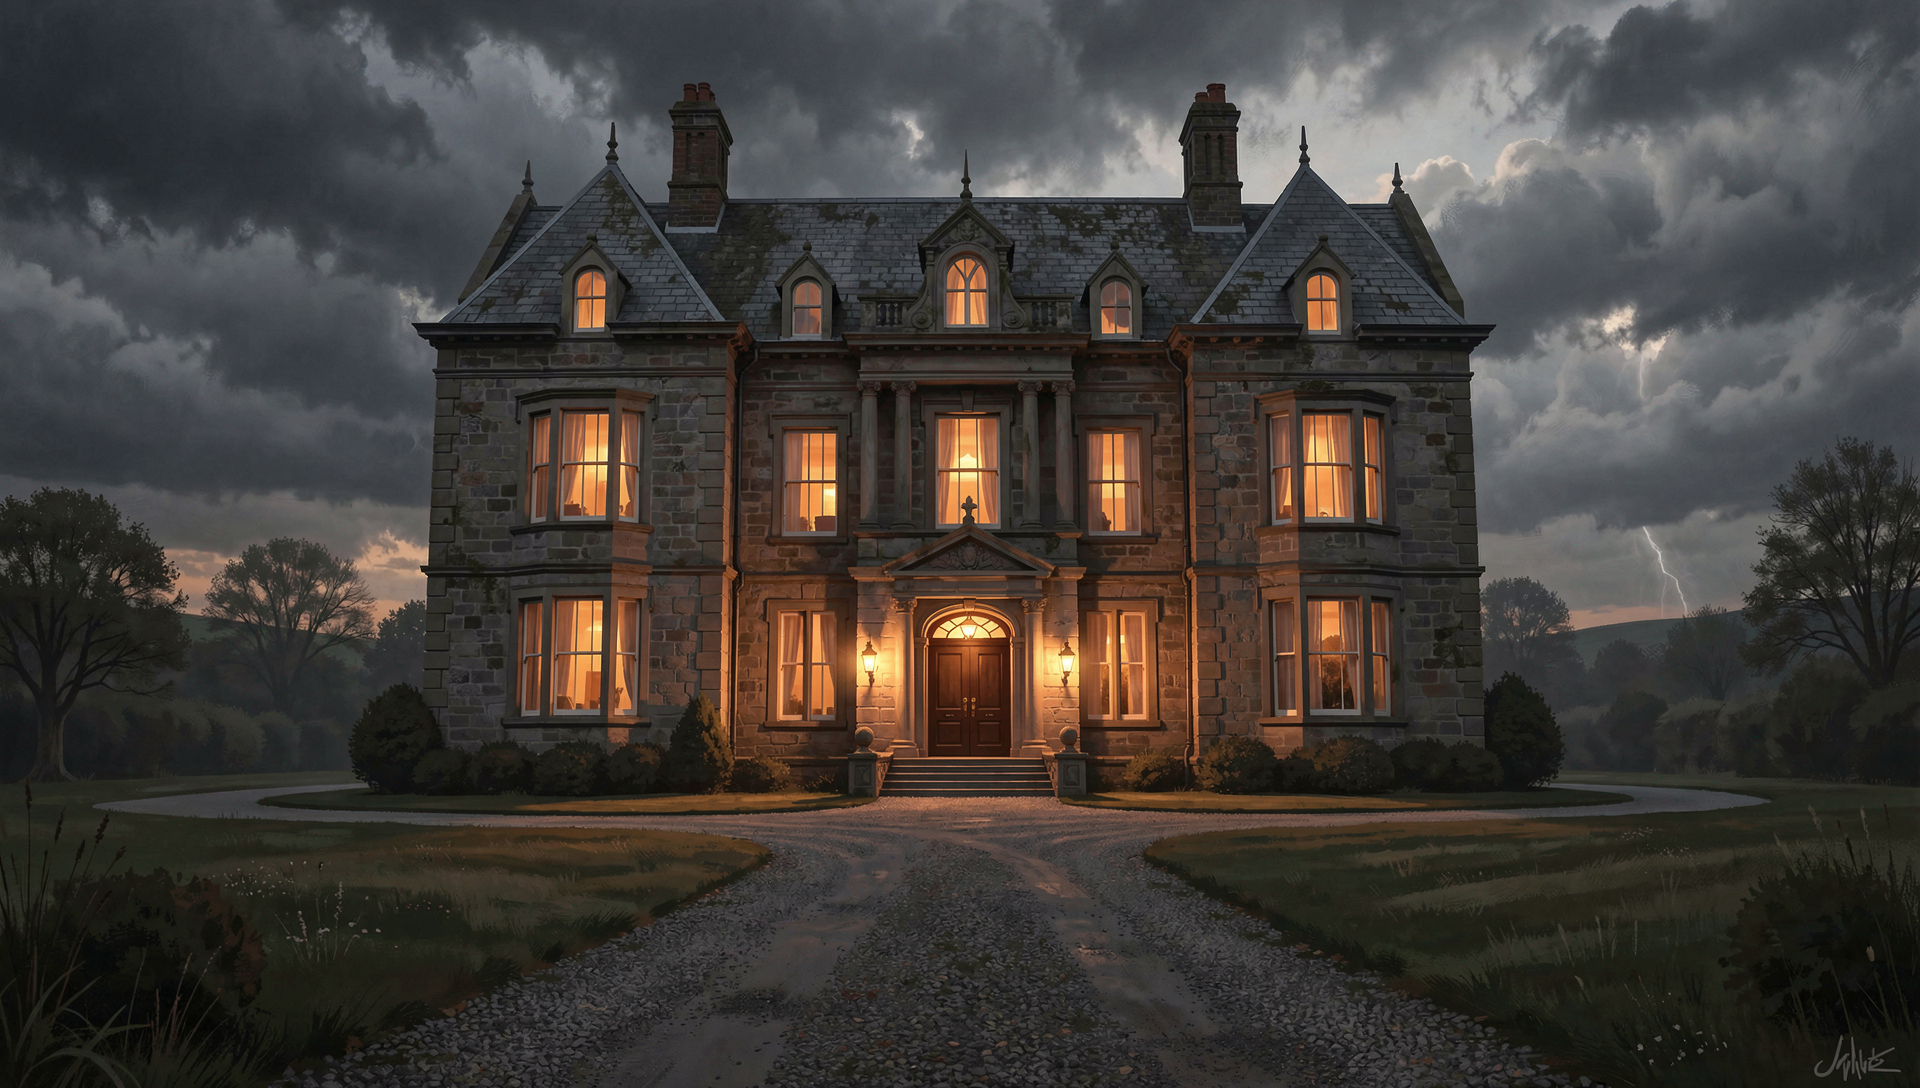
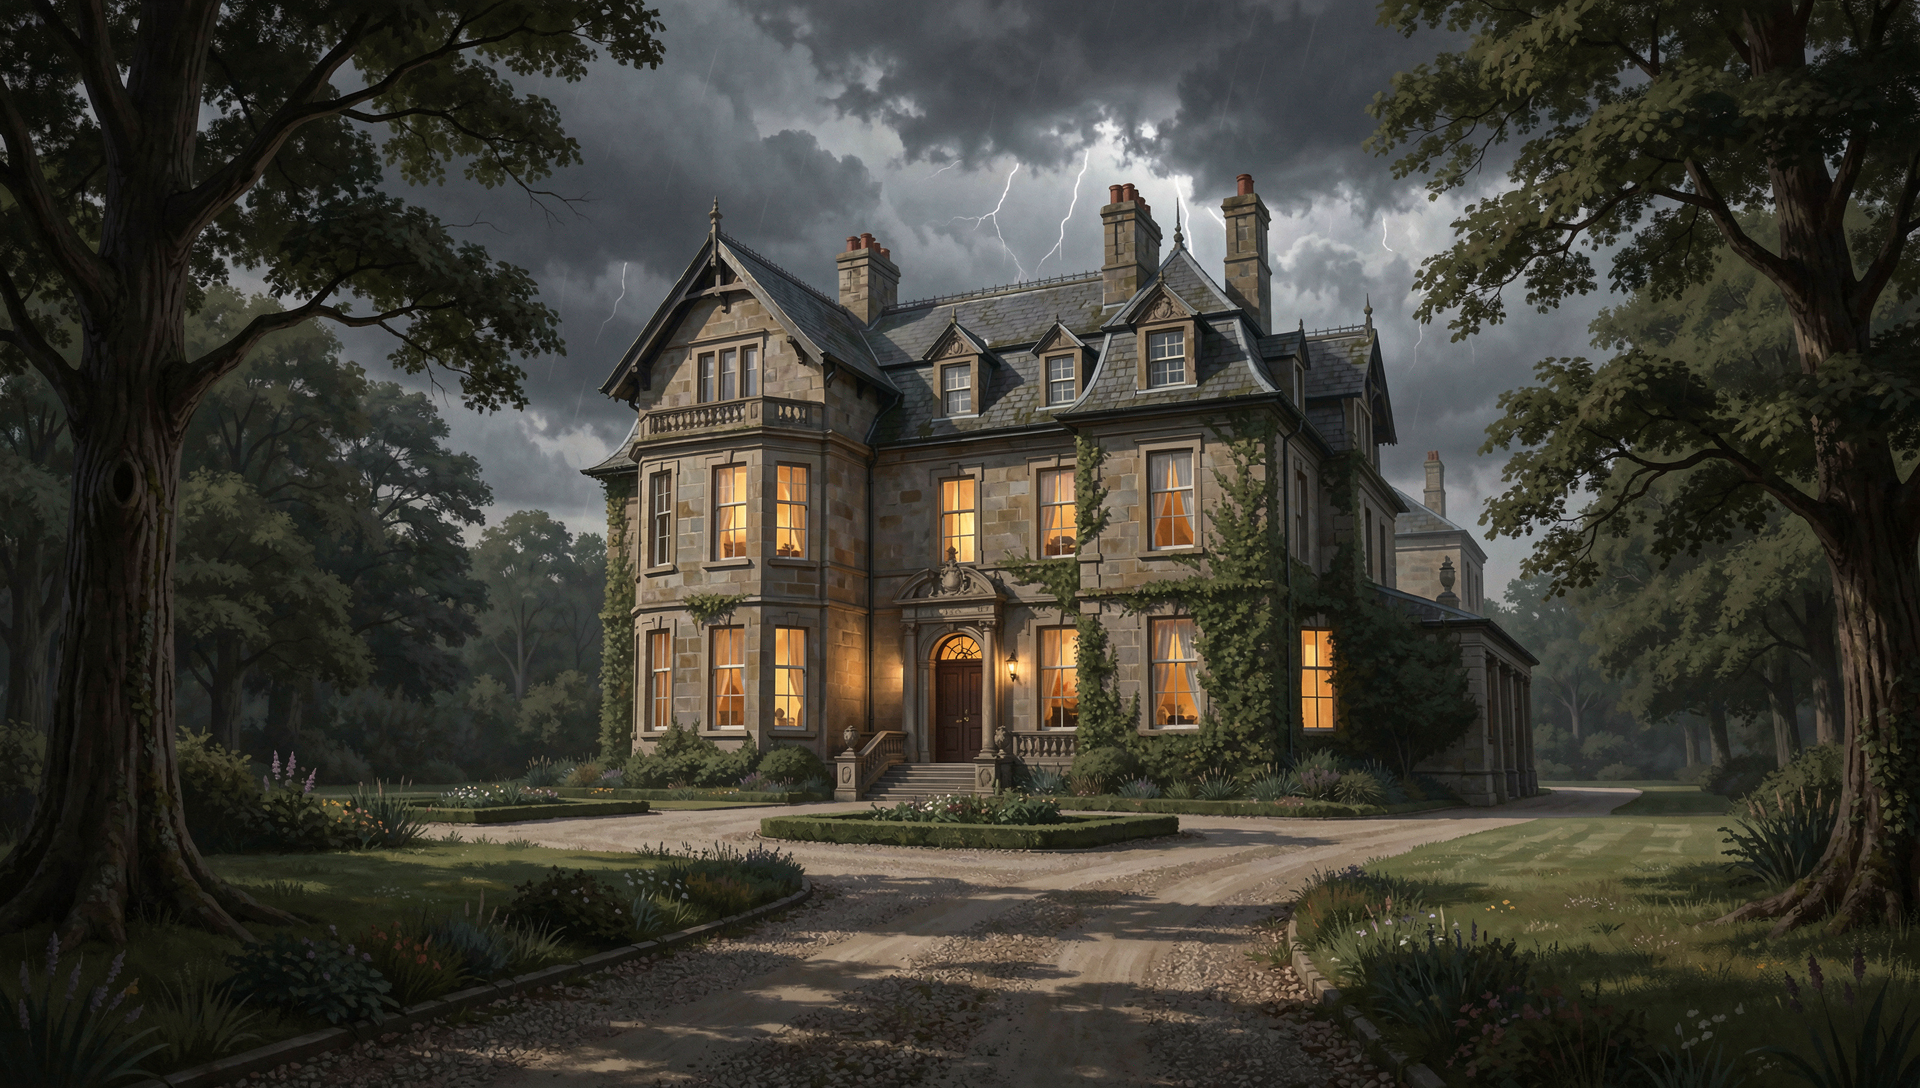
new outdoor locations image

diff --git a/tools/toggle_location_lighting.py b/tools/toggle_location_lighting.py
@@ -25,8 +25,8 @@ PROMPT_TEMPLATES = {
         "Wide shot, empty room, rich textures, detailed."
     ),
     "outdoor_night": (
-        "A high-quality semi-realistic digital painting of a {description} at night. "
-        "Warm amber light. Deep soft shadows, mysterious atmosphere, wide shot, "
+        "A high-quality semi-realistic digital painting of a {description} at night."
+        "Deep soft shadows, mysterious atmosphere, wide shot, "
         "rich textures."
     ),
     "outdoor_day": (

diff --git a/tools/generate_location_images.py b/tools/generate_location_images.py
@@ -57,7 +57,7 @@ PROMPT_TEMPLATES = {
     ),
     "outdoor": (
         "A high-quality semi-realistic digital painting of a {description}. "
-        "Warm amber light. Deep soft shadows, mysterious atmosphere, wide shot, "
+        "Deep soft shadows, mysterious atmosphere, wide shot, "
         "rich textures."
     ),
 }

diff --git a/Murder/game/images/locations/_locations.md b/Murder/game/images/locations/_locations.md
@@ -51,16 +51,19 @@ Wrapped in the attic template — the interior template without the colourful ob
 
 Wrapped in the outdoor template:
 
-> A high-quality semi-realistic digital painting of a **{description}**. Warm amber light. Deep soft shadows, mysterious atmosphere, wide shot, rich textures.
+> A high-quality semi-realistic digital painting of a **{description}**. Deep soft shadows, mysterious atmosphere, wide shot, rich textures.
 
-| id                     | description                                                                                                                  |
-| ---------------------- | ---------------------------------------------------------------------------------------------------------------------------- |
-| manor_exterior         | grand 1920s Scottish manor seen from the gravel drive, its towering stone facade and lit windows rising against a stormy sky |
-| manor_garden           | 1920s Scottish manor garden with clipped hedges, gravel paths and a stone fountain, the dark house looming behind            |
-| forest                 | dense Scottish pine forest, tall trees and tangled undergrowth, mist drifting between the trunks                             |
-| forest_road            | narrow rutted road winding through a dark Scottish forest, tall trees crowding either side                                   |
-| toolshed_outside_day   | weathered stone toolshed in the manor grounds by day, a heavy wooden door and overgrown grass around it                      |
-| toolshed_outside_night | weathered stone toolshed in the manor grounds at night, a heavy wooden door and shadows pooling around it in the rain        |
-| train_station          | small rural Scottish railway station with an empty platform, gas lamps, a wooden bench and a canopy                          |
-| police_station         | modest small-town Scottish police station of grey stone, seen from the street, a blue lamp above its door                    |
-| house_on_fire          | 1920s Scottish manor engulfed in flames at night, fire bursting from the windows and roof, smoke billowing into a dark sky   |
+| id               | description                                                                                                                                                                                 |
+| ---------------- | ------------------------------------------------------------------------------------------------------------------------------------------------------------------------------------------- |
+| broken_flat      | Victorian pauper apartment, with a dead man on his bed, with a sheet covering his head                                                                                                      |
+| manor_exterior   | grand 1920s two-storey Scottish manor seen from the gravel drive, surrounded by tall trees, towering stone facade and lit windows rising against a stormy sky, luxurious garden on the back |
+| manor_garden     | 1920s Scottish manor garden, gravel paths and a stone fountain, the dark house looming behind, tall trees around, touch of warm colors                                                      |
+| forest           | dense Scottish forest, tall trees and tangled undergrowth, mist drifting between the trunks, touch of warm colors                                                                           |
+| forest_road      | narrow rutted road winding through a dark Scottish forest, tall trees crowding either side, touch of warm colors                                                                            |
+| toolshed_outside | Done                                                                                                                                                                                        |
+| train_station    | medium size Scottish railway station, daytime, a few people on the platform, gas lamps, touch of warm colors                                                                                |
+| police_station   | modest small-town Scottish police station in 1920, inside with a few persons, touch of warm colors                                                                                          |
+| house_on_fire    | 1920s city house in flames at night, in the city center of a big british city, fire bursting from the windows and roof, smoke billowing into a dark sky, touch of warm colors               |
+
+
+

diff --git a/docs/next_tasks.md b/docs/next_tasks.md
@@ -36,8 +36,6 @@ Multiple Class in train for outside IMAGEs
 
 Victorian pauper apartement, with a disfigured dead man on his bed. 
 
-NAMe without chapter should be centered in black transition
-
 ## Technical Tasks
 
 